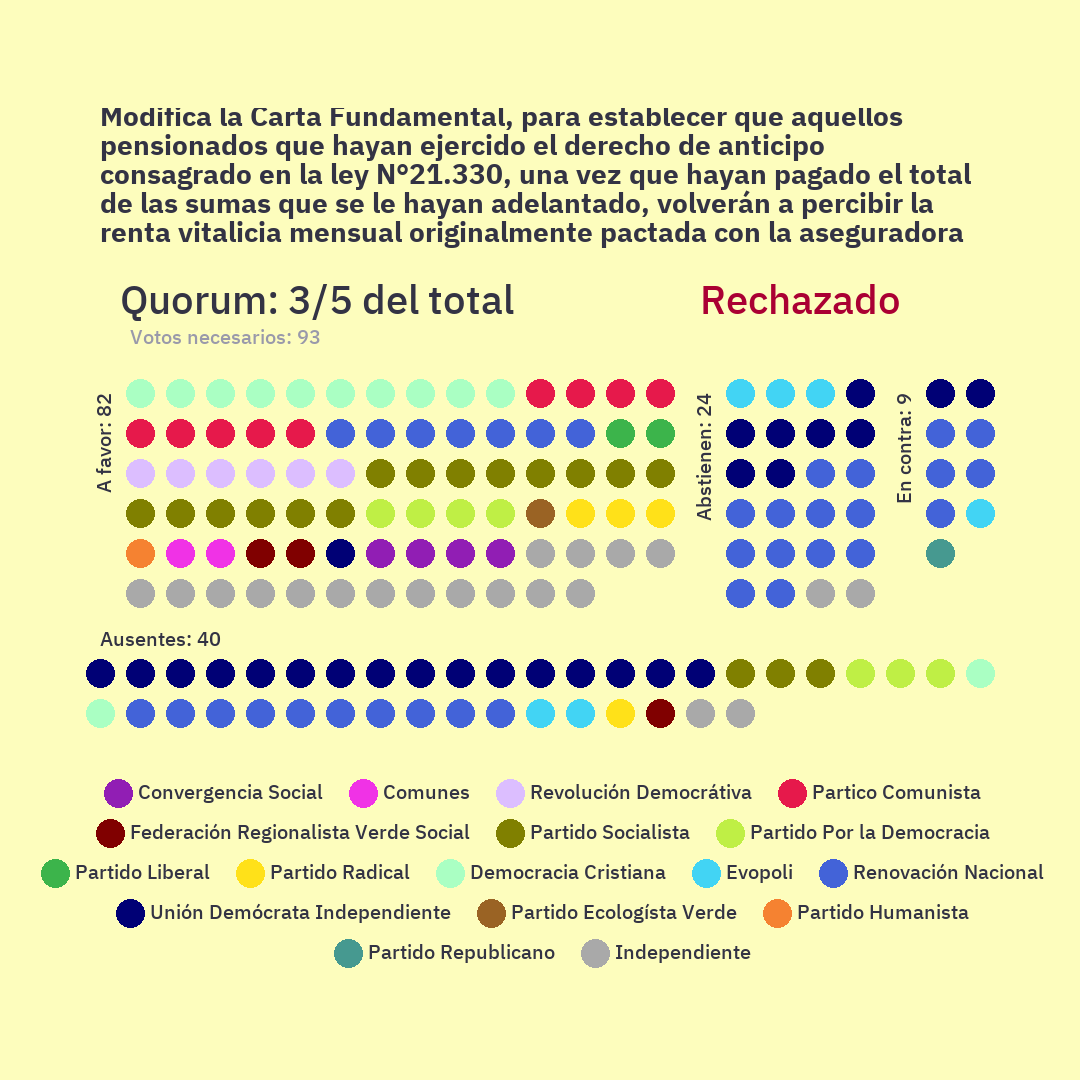
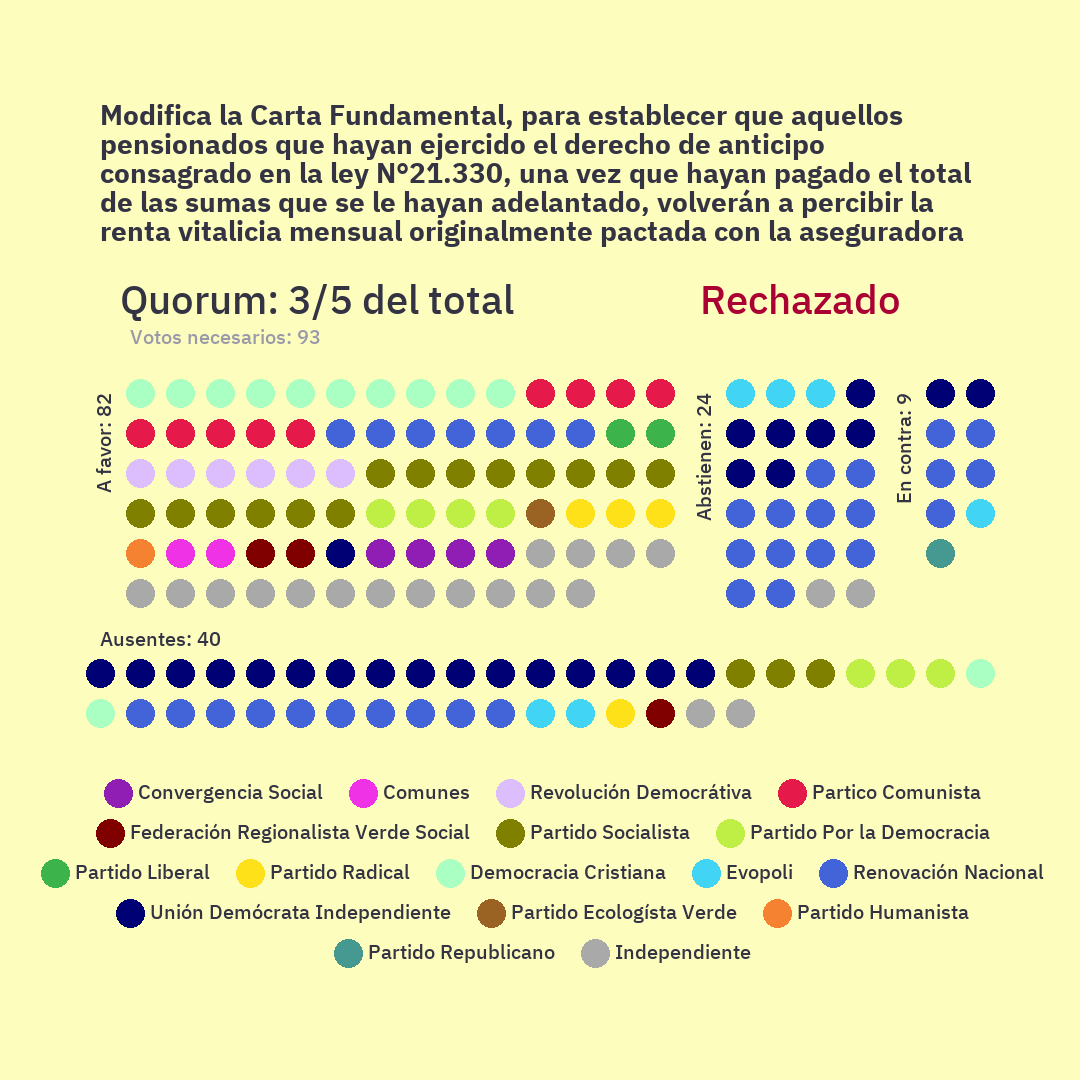
:bug: Arregla visualizaciones con título cortado

Changed region(s): [[0.0917, 0.0917, 0.8556, 0.2444], [0.8556, 0.1528, 0.8861, 0.1833]]

diff --git a/draw/draw.py b/draw/draw.py
@@ -186,7 +186,7 @@ def center_image(im, height):
     draw = ImageDraw(im)
     background_color = im.getpixel((1,1079))
     draw.rectangle([(0,0),(1080, padding)], fill=background_color)
-    return im
+    return im, padding
      
 
 def create_image(titulo='', subtitulo='', resultado='', quorum='', nquorum=-1, grupos={},
@@ -289,7 +289,7 @@ def create_image(titulo='', subtitulo='', resultado='', quorum='', nquorum=-1, g
 
     # Escribe encabezado
     title_size = draw.write_text_box((100, -40), titulo, box_width=880, box_height=200,
-                   font_filename=font_title_path, font_size='fill', color='#333344')
+                   font_filename=font_title_path, font_size='fill', color=background_color)
     if resultado.lower() == "rechazado":
         color_resultado = '#AA0033'
     else:
@@ -359,7 +359,13 @@ def create_image(titulo='', subtitulo='', resultado='', quorum='', nquorum=-1, g
     
     # Dibuja leyenda
     global_endY = draw_legend(draw, 1000, iniY+40, grupos)
-    im = center_image(im, global_endY)
+
+    # Centra la visualización
+    im, padding = center_image(im, global_endY)
+
+    # Redibuja el título, para evitar que sea cortado por center_image
+    ImageDraw(im).write_text_box((100, padding-40), titulo, box_width=880, box_height=200,
+                   font_filename=font_title_path, font_size='fill', color='#333344')
 
     # Dibuja banner inferior
     # TODO: Dibujar banner inferior

diff --git a/diputados/main.py b/diputados/main.py
@@ -17,9 +17,9 @@ path_root = '/'.join(path_diputados.split('/')[:-1])
 
 if __name__ == "__main__":
 
-    votids = [36472, 36976, 36975, 36974, 36973]
-    votids += api.get_votaciones_recientes()
-    votids += [36997]
+    #votids = [36472, 36976, 36975, 36974, 36973]
+    #votids += api.get_votaciones_recientes()
+    votids = [36977, 36997]
     if len(sys.argv) > 1:
             votids = [int(sys.argv[1])]
     
